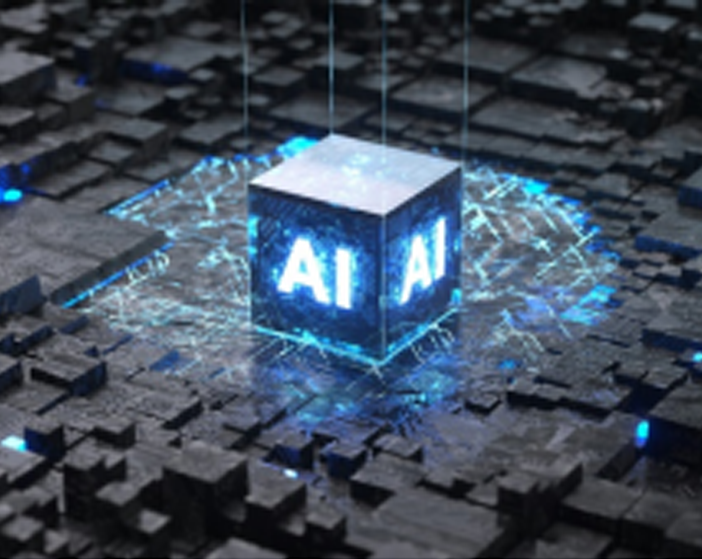
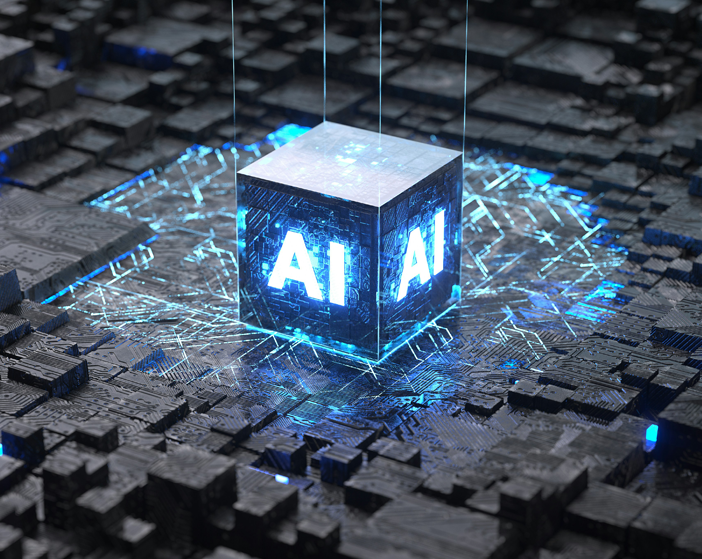
new update

diff --git a/src/pages/Home/plan.jsx b/src/pages/Home/plan.jsx
@@ -184,7 +184,7 @@ const Plan = () => {
                           <h3 className="text-center text-lg font-medium text-white pb-3">
                             £
                             <span className="text-center text-3xl font-bold text-white pb-6">
-                              8
+                              10
                               <span className="text-center text-lg font-medium text-white">
                                 / month
                               </span>
@@ -319,7 +319,7 @@ const Plan = () => {
                           <h3 className="text-center text-lg font-medium text-white pb-3">
                             £
                             <span className="text-center text-3xl font-bold text-white pb-6">
-                              10
+                              12
                               <span className="text-center text-lg font-medium text-white">
                                 / month
                               </span>
@@ -454,13 +454,16 @@ const Plan = () => {
                           <h2 className="text-center text-2xl lg:text-3xl font-bold text-black pb-2">
                             Silver Plan
                           </h2>
-                          <p className="text-center text-base lg:text-lg font-normal text-black pb-1">
+                          <p className="text-center text-base lg:text-xs font-normal text-black pb-2">
                             3 Day Free Trial
+                          </p>
+                          <p className="text-center text-base lg:text-base font-medium text-white pb-0">
+                            £60 Annually
                           </p>
                           <h3 className="text-center text-lg font-medium text-black pb-3">
                             £
                             <span className="text-center text-3xl font-bold text-black pb-6">
-                              4
+                              5
                               <span className="text-center text-lg font-medium text-black">
                                 / month
                               </span>
@@ -589,13 +592,16 @@ const Plan = () => {
                           <h2 className="text-center text-2xl lg:text-3xl font-bold text-white pb-2">
                             Gold Plan
                           </h2>
-                          <p className="text-center text-base lg:text-lg font-medium text-white pb-1">
+                          <p className="text-center text-base lg:text-xs font-normal text-black pb-2">
                             3 Day Free Trial
+                          </p>
+                          <p className="text-center text-base lg:text-base font-medium text-black pb-0">
+                            £96 Annually
                           </p>
                           <h3 className="text-center text-lg font-medium text-white pb-3">
                             £
                             <span className="text-center text-3xl font-bold text-white pb-6">
-                              6
+                              8
                               <span className="text-center text-lg font-medium text-white">
                                 / month
                               </span>
@@ -724,13 +730,16 @@ const Plan = () => {
                           <h2 className="text-center text-2xl lg:text-3xl font-bold text-white pb-2">
                             Platinum Plan
                           </h2>
-                          <p className="text-center text-base lg:text-lg font-medium text-white pb-1">
+                          <p className="text-center text-base lg:text-xs font-normal text-black pb-2">
                             3 Day Free Trial
+                          </p>
+                          <p className="text-center text-base lg:text-base font-medium text-black pb-0">
+                            £120 Annually
                           </p>
                           <h3 className="text-center text-lg font-medium text-white pb-3">
                             £
                             <span className="text-center text-3xl font-bold text-white pb-6">
-                              8
+                              10
                               <span className="text-center text-lg font-medium text-white">
                                 / month
                               </span>

diff --git a/src/pages/YourAccount/YourAccount.jsx b/src/pages/YourAccount/YourAccount.jsx
@@ -31,7 +31,6 @@ const YourAccount = () => {
   // const email = localStorage.getItem("userEmail");
   const userName = localStorage.getItem("userName");
 
-
   useEffect(() => {
     dispatch(toolsList());
   }, []);
@@ -107,7 +106,7 @@ const YourAccount = () => {
                                 required
                               />
                             </div>
-                            <div>
+                            {/* <div>
                               <div className="mb-2 block">
                                 <Label value="Your Preferred Tools" />
                               </div>
@@ -117,9 +116,9 @@ const YourAccount = () => {
                                 <option>Tools</option>
                                 <option>Tools</option>
                               </Select>
-                            </div>
+                            </div> */}
                           </div>
-                          <div class="grid grid-cols-2 gap-4">
+                          {/* <div class="grid grid-cols-2 gap-4">
                             <div>
                               <div className="mb-2 block">
                                 <Label value="Language Preference" />
@@ -131,10 +130,10 @@ const YourAccount = () => {
                                 <option>English</option>
                               </Select>
                             </div>
-                          </div>
+                          </div> */}
                         </div>
 
-                        <div className="mb-4">
+                        {/* <div className="mb-4">
                           <h2 class="text-2xl pb-2 font-bold text-black">
                             Email
                           </h2>
@@ -184,7 +183,7 @@ const YourAccount = () => {
                               </div>
                             </div>
                           </form>
-                        </div>
+                        </div> */}
 
                         <div className="mb-4">
                           <h2 class="text-2xl pb-2 font-bold text-black">
@@ -205,7 +204,7 @@ const YourAccount = () => {
                                 </div>
                                 <div>
                                   <div className="mb-2 block">
-                                    <Label value="Old Password" />
+                                    <Label value="New Password" />
                                   </div>
                                   <TextInput
                                     type="password"

diff --git a/src/pages/Home/benefit.jsx b/src/pages/Home/benefit.jsx
@@ -104,13 +104,18 @@ const Benefit = () => {
                 </ul> */}
               </div>
             </div>
-            <div className="w-full md:w-6/12">
+            <div className="w-full md:w-6/12 ml-0 md:ml-8">
               <div
                 className="benefit_section_img ml-4"
                 data-aos="fade-left"
                 data-aos-duration="1500"
               >
-                <img src={benefitImg} width="" height="" />
+                <img
+                  src={benefitImg}
+                  width=""
+                  height=""
+                  className="rounded-2xl"
+                />
               </div>
             </div>
           </div>

diff --git a/src/pages/Home/banner.jsx b/src/pages/Home/banner.jsx
@@ -48,13 +48,18 @@ const Banner = () => {
                 </div>
               </div>
             </div>
-            <div className="w-full md:w-6/12">
+            <div className="w-full md:w-6/12 ml-0 md:ml-8">
               <div
                 className="home_banner_img"
                 data-aos="fade-left"
                 data-aos-duration="1500"
               >
-                <img src={bannerImage} width="702" height="559" />
+                <img
+                  src={bannerImage}
+                  width="702"
+                  height="559"
+                  className="rounded-2xl"
+                />
               </div>
             </div>
           </div>
